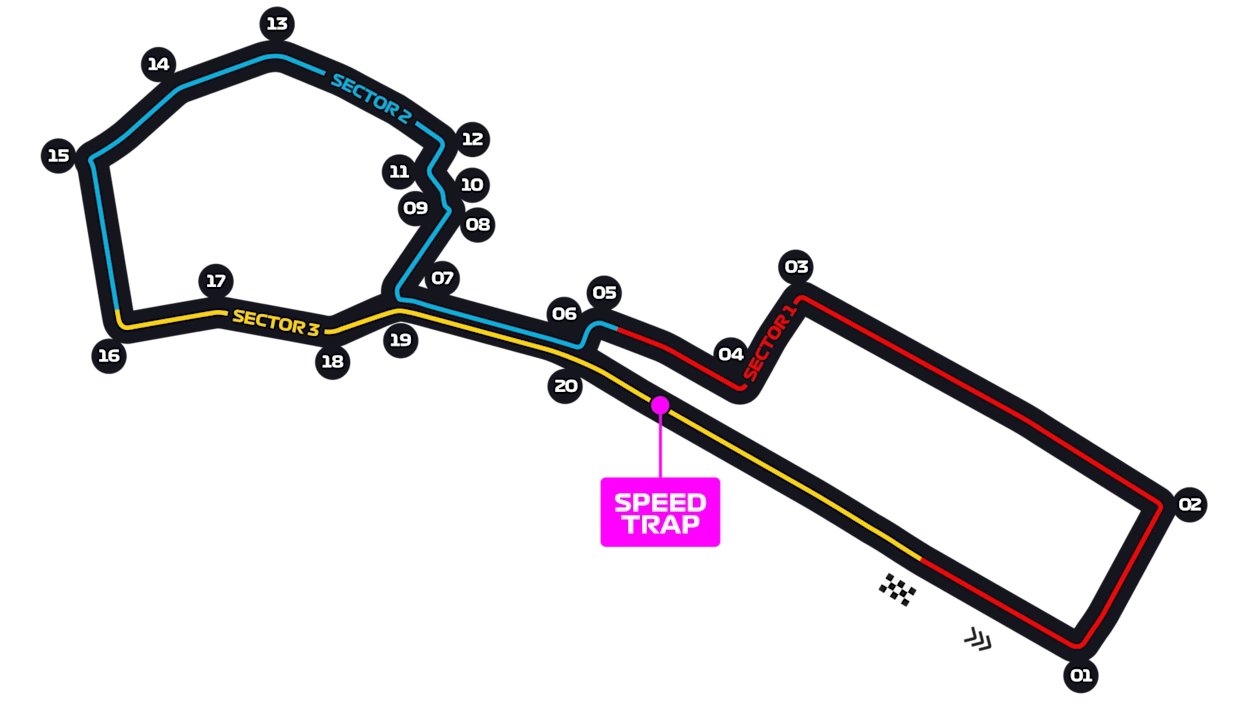
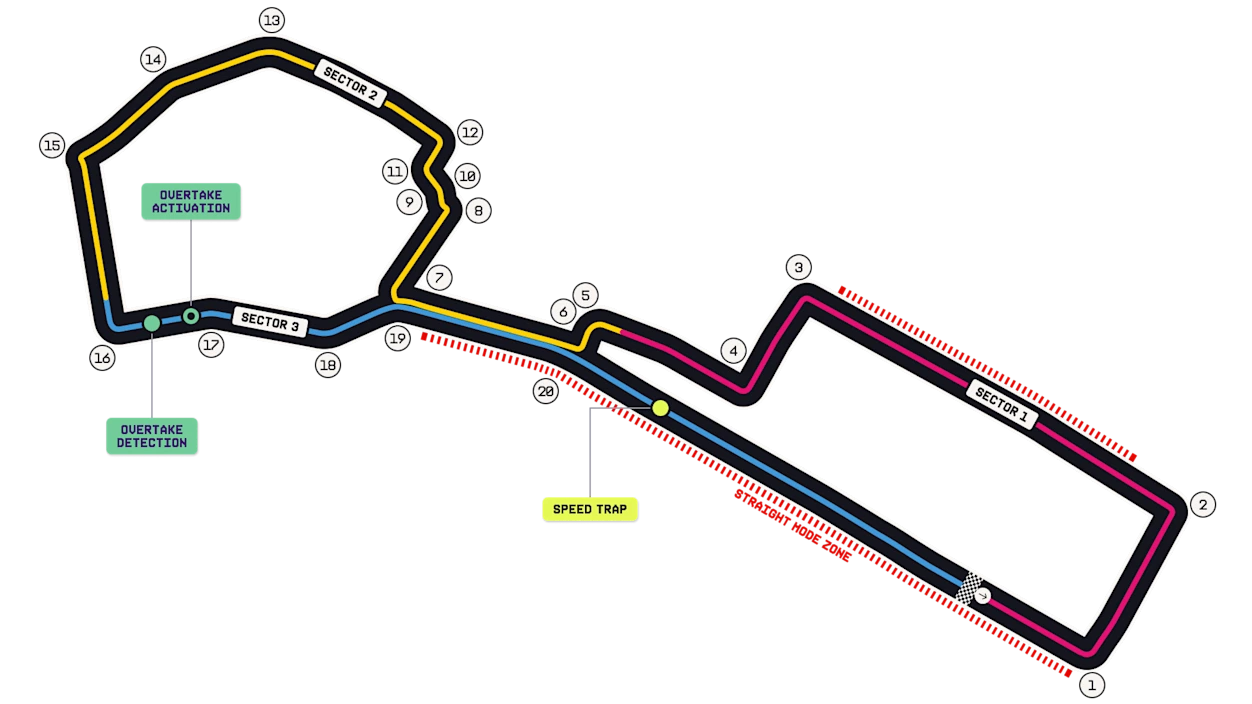
Fix reference refresh record preservation and deterministic tests

Changed region(s): [[0.0312, 0.0, 0.9657, 1.0], [0.0623, 0.5938, 0.1558, 0.6562]]

diff --git a/src/lib/data/reference-parser.test.ts b/src/lib/data/reference-parser.test.ts
@@ -1,10 +1,13 @@
 import { describe, expect, it } from "vitest";
-import { parseCircuitReference, parseTeamReference, referenceGrid, referenceText, trustedCircuitImage, validateScheduleRefresh } from "./reference-parser";
+import { parseCircuitReference, parseTeamReference, referenceGrid, referenceText, trustedCircuitImage, validateScheduleRefresh, type CircuitReference } from "./reference-parser";
 import reference from "./circuit-reference.json";
 import schedules from "./session-reference.json";
 
 const grid = (pairs: [string, string, string?][]) => pairs.map(([k, v, extra]) => `<dt class="label">${k}</dt><dd><strong>${v}</strong></dd>${extra ? `<span>${extra}</span>` : ""}`).join("\n");
 const circuit = grid([["Circuit Length", "5.414km"], ["First Grand Prix", "2026"], ["Number of Laps", "57"], ["Race Distance", "308.399km"], ["Fastest lap time", "1:32.000", "Test Driver (2026)"]]);
+const maiden = { ...reference.madrid, lapRecord: "—", lapRecordHolder: "—", lapRecordYear: undefined };
+const established: CircuitReference = { ...reference.yas_marina, firstGrandPrix: 2009, length: 5.281, lapRecord: "1:25.637", lapRecordHolder: "Kevin Magnussen", lapRecordYear: 2024 };
+const unavailableRecord = grid([["Circuit Length", "5.281km"], ["First Grand Prix", "2009"], ["Number of Laps", "58"], ["Race Distance", "306.188km"], ["Fastest lap time", "--"]]);
 
 describe("reference refresh source guards", () => {
   it("parses labelled facts and encoded names without evaluating HTML", () => {
@@ -13,7 +16,7 @@ describe("reference refresh source guards", () => {
     expect(referenceText("&#x110000;")).toBe("");
   });
   it("accepts a maiden race record and preserves source identity and corner count", () => {
-    const result = parseCircuitReference(circuit, reference.madrid);
+    const result = parseCircuitReference(circuit, maiden);
     expect(result.lapRecord).toBe("1:32.000");
     expect(result.lapRecordYear).toBe(2026);
     expect(result.turns).toBe(22);
@@ -22,6 +25,62 @@ describe("reference refresh source guards", () => {
   it("rejects login pages, missing fields, invalid units, fractional laps and erased records", () => {
     for (const html of ["<html>Access denied</html>", circuit.replace("5.414km", "5414km"), circuit.replace(">57<", ">57.5<"), circuit.replace("(2026)", "(3026)")]) expect(() => parseCircuitReference(html, reference.madrid)).toThrow();
     expect(() => parseCircuitReference(circuit.replace("1:32.000", "--"), reference.monza)).toThrow();
+  });
+  it("requires explicit warning capture to preserve an unavailable established record", () => {
+    expect(() => parseCircuitReference(unavailableRecord, established)).toThrow(/Refusing to erase/);
+    for (const marker of ["--", "—", "N/A"]) {
+      const warnings: string[] = [];
+      const previous = { ...established, raceDistance: 306.183 };
+      const result = parseCircuitReference(unavailableRecord.replace("--", marker), previous, { onPreservedLapRecord: warning => warnings.push(warning) });
+      expect(result).toEqual({ ...previous, raceLaps: 58, raceDistance: 306.188 });
+      expect(previous.raceDistance).toBe(306.183);
+      expect(warnings).toHaveLength(1);
+      expect(warnings[0]).toContain(`(${marker}); preserved verified 1:25.637 by Kevin Magnussen (2024)`);
+    }
+  });
+  it("leaves a maiden circuit empty without a preservation warning", () => {
+    const warnings: string[] = [];
+    const html = circuit.replace("1:32.000", "--").replace("<span>Test Driver (2026)</span>", "");
+    const result = parseCircuitReference(html, maiden, { onPreservedLapRecord: warning => warnings.push(warning) });
+    expect(result.lapRecord).toBe("—");
+    expect(result.lapRecordHolder).toBe("—");
+    expect(result.lapRecordYear).toBeUndefined();
+    expect(warnings).toEqual([]);
+  });
+  it("keeps malformed sources fatal even when preservation is enabled", () => {
+    const warnings: string[] = [];
+    const options = { onPreservedLapRecord: (warning: string) => warnings.push(warning) };
+    for (const html of [
+      "<html>Access denied</html>",
+      unavailableRecord.replace("Fastest lap time", "Missing field"),
+      ...["TBC", "1:99.000", "1:25.637", ""].map(value => unavailableRecord.replace("--", value)),
+      unavailableRecord + "<span>Kevin Magnussen (2024)</span>",
+      unavailableRecord.replace("5.281km", "5281km"),
+      unavailableRecord.replace(">58<", ">58.5<"),
+      unavailableRecord.replace("--", "1:25.637") + "<span>Kevin Magnussen (3026)</span>",
+    ]) expect(() => parseCircuitReference(html, established, options)).toThrow();
+    expect(warnings).toEqual([]);
+  });
+  it("never preserves a record across identity or layout changes", () => {
+    const warnings: string[] = [];
+    for (const html of [unavailableRecord.replace("2009", "2010"), unavailableRecord.replace("5.281km", "5.280km")]) {
+      expect(() => parseCircuitReference(html, established, { onPreservedLapRecord: warning => warnings.push(warning) })).toThrow(/identity or layout/);
+    }
+    expect(warnings).toEqual([]);
+  });
+  it("does not preserve incomplete or invalid saved records", () => {
+    const warnings: string[] = [];
+    for (const invalid of [{ lapRecord: "1:99.000" }, { lapRecord: "0:00.000" }, { lapRecordHolder: "—" }, { lapRecordHolder: "" }, { lapRecordHolder: "  " }, { lapRecordYear: undefined }, { lapRecordYear: 3026 }, { lapRecordYear: 1949 }, { lapRecordYear: 2024.5 }]) {
+      expect(() => parseCircuitReference(unavailableRecord, { ...established, ...invalid }, { onPreservedLapRecord: warning => warnings.push(warning) })).toThrow(/invalid saved/);
+    }
+    expect(warnings).toEqual([]);
+  });
+  it("accepts a newly published record without a preservation warning", () => {
+    const warnings: string[] = [];
+    const html = unavailableRecord.replace("--", "1:25.000") + "<span>Test Driver (2026)</span>";
+    const result = parseCircuitReference(html, established, { onPreservedLapRecord: warning => warnings.push(warning) });
+    expect(result).toEqual({ ...established, raceLaps: 58, raceDistance: 306.188, lapRecord: "1:25.000", lapRecordHolder: "Test Driver", lapRecordYear: 2026 });
+    expect(warnings).toEqual([]);
   });
   it("validates complete team facts before replacing the old reference", () => {
     const html = grid([["Full Team Name", "Audi Revolut F1 Team"], ["Base", "Hinwil, Switzerland"], ["Team Chief", "Mattia Binotto"], ["Power Unit", "Audi"]]);

diff --git a/src/lib/data/reference-parser.ts b/src/lib/data/reference-parser.ts
@@ -28,7 +28,10 @@ function boundedNumber(value: string | undefined, minimum: number, maximum: numb
   return n;
 }
 
-export function parseCircuitReference(html: string, previous: CircuitReference): CircuitReference {
+export function parseCircuitReference(html: string, previous: CircuitReference, options?: {
+  /** Explicit opt-in: retain a verified record only if the source marks it unavailable. */
+  onPreservedLapRecord: (warning: string) => void;
+}): CircuitReference {
   const fields = referenceGrid(html);
   const next = {
     ...previous,
@@ -46,10 +49,15 @@ export function parseCircuitReference(html: string, previous: CircuitReference):
     next.lapRecord = lap.value;
     next.lapRecordHolder = holder[1];
     next.lapRecordYear = Number(holder[2]);
-  } else if (previous.lapRecord !== "—") {
-    throw new Error("Refusing to erase an established lap record");
-  } else if (!/^(?:--|—|N\/A)$/.test(lap.value)) {
+  } else if (!/^(?:--|—|N\/A)$/.test(lap.value) || lap.extra) {
     throw new Error("Unrecognised empty lap record");
+  } else if (previous.lapRecord !== "—") {
+    if (!options) throw new Error("Refusing to erase an established lap record");
+    if (next.firstGrandPrix !== previous.firstGrandPrix || next.length !== previous.length) throw new Error("Cannot preserve a lap record across circuit identity or layout changes");
+    if (!/^\d:[0-5]\d\.\d{3}$/.test(previous.lapRecord) || previous.lapRecord === "0:00.000" ||
+      !/^.{2,70}$/.test(previous.lapRecordHolder.trim()) || /^(?:--|—|N\/A)$/.test(previous.lapRecordHolder.trim()) ||
+      !Number.isInteger(previous.lapRecordYear) || previous.lapRecordYear! < 1950 || previous.lapRecordYear! > 2026) throw new Error("Cannot preserve an invalid saved lap record");
+    options.onPreservedLapRecord(`Official source marks the lap record unavailable (${lap.value}); preserved verified ${previous.lapRecord} by ${previous.lapRecordHolder} (${previous.lapRecordYear})`);
   }
   // Turn counts are not a consistently structured upstream field. Preserve the
   // reviewed value; a geometry change is reported for review by the sync job.

diff --git a/src/lib/circuits/weekend.test.ts b/src/lib/circuits/weekend.test.ts
@@ -28,9 +28,10 @@ describe("circuit weekend freshness", () => {
     expect(matchingCircuitRace(CIRCUITS.bahrain, race("1:20.000", CIRCUITS.bahrain.raceDate))).toBeUndefined();
   });
   it("fills a maiden circuit record from its first published race", () => {
-    expect(circuitLapRecord(madrid)).toBeNull();
-    expect(circuitLapRecord(madrid, race())).toEqual({ time: "1:32.000", holder: "Test Driver", year: 2026, source: "classification" });
-    expect(circuitLapRecord(madrid, race("1:20.000", "2026-09-06"))).toBeNull();
+    const maiden = { ...madrid, lapRecord: "—", lapRecordHolder: "—", lapRecordYear: undefined };
+    expect(circuitLapRecord(maiden)).toBeNull();
+    expect(circuitLapRecord(maiden, race())).toEqual({ time: "1:32.000", holder: "Test Driver", year: 2026, source: "classification" });
+    expect(circuitLapRecord(maiden, race("1:20.000", "2026-09-06"))).toBeNull();
   });
   it("only improves an existing record with a valid faster race lap", () => {
     const circuit = { ...madrid, lapRecord: "1:30.000", lapRecordHolder: "Previous Driver", lapRecordYear: 2025 };
